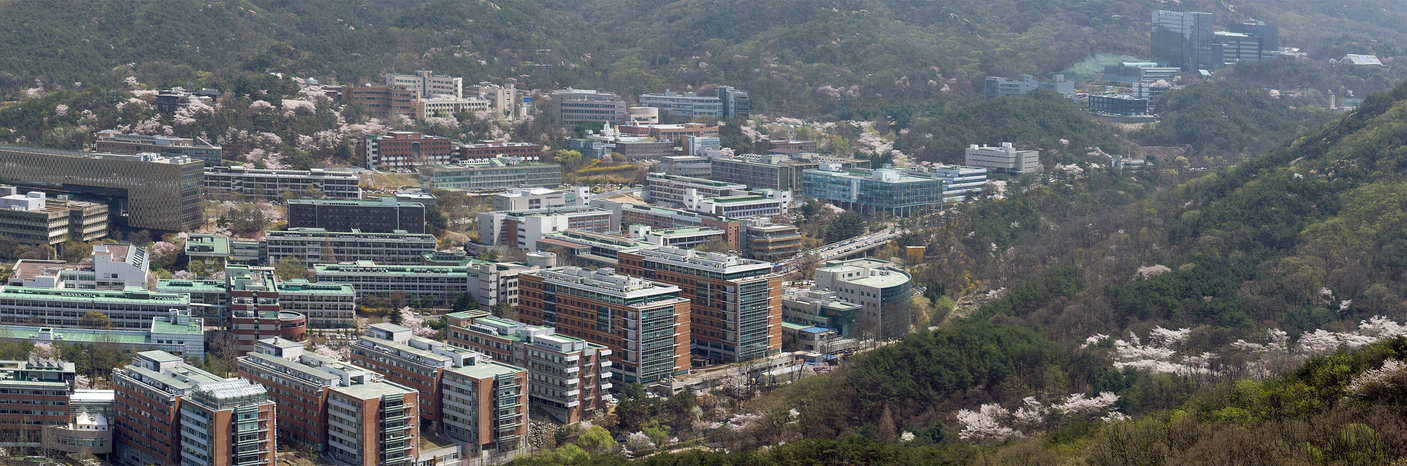
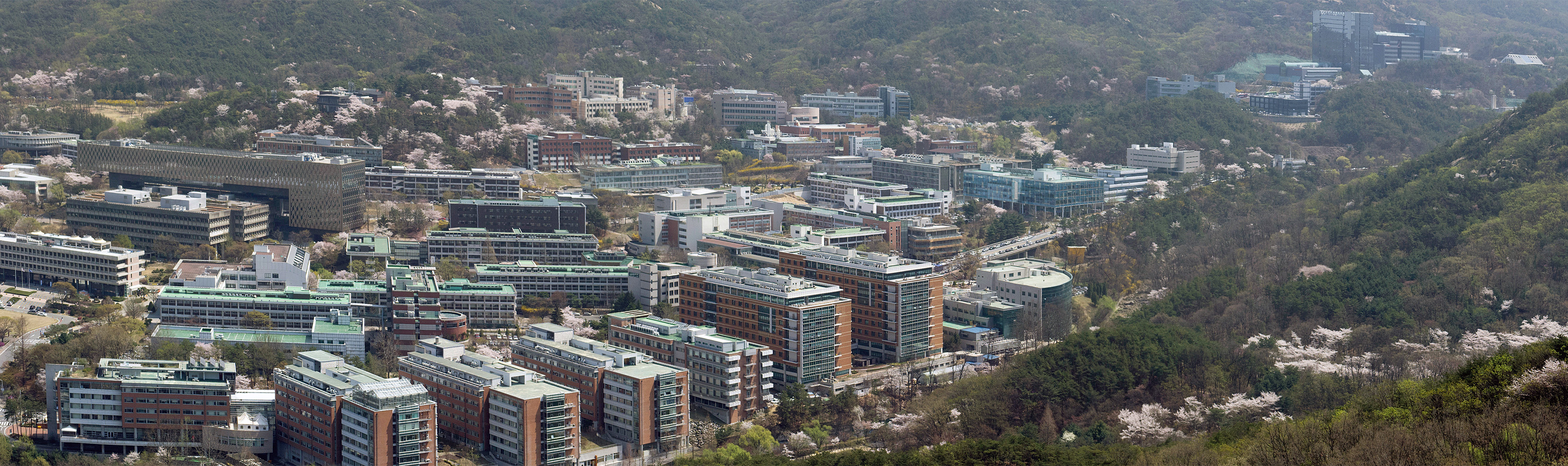
Connect left and right images and draw them

diff --git a/js/app.js b/js/app.js
@@ -53,7 +53,7 @@ class App {
                 },
                 image: {
                     width: this.images[0].width + this.images[1].width,
-                    height: this.images[0].height + this.images[1].height,
+                    height: this.images[0].height,
                 },
             };
 
@@ -111,18 +111,16 @@ class App {
             // lookup uniforms
             this.u_resolution = gl.getUniformLocation(program, "u_resolution");
             this.u_imageResolution = gl.getUniformLocation(program, "u_imageResolution");
-            this.u_imageLeftWidth = gl.getUniformLocation(program, "u_imageLeftWidth");
-            this.u_imageRightWidth = gl.getUniformLocation(program, "u_imageRightWidth");
             this.u_mousePosition = gl.getUniformLocation(program, "u_mousePosition");
 
             // lookup the sampler locations.
-            const u_image0LeftLocation = gl.getUniformLocation(program, "u_image0L");
+            const u_image0LeftLocation  = gl.getUniformLocation(program, "u_image0L");
             const u_image0RightLocation = gl.getUniformLocation(program, "u_image0R");
-            const u_image1LeftLocation = gl.getUniformLocation(program, "u_image1L");
+            const u_image1LeftLocation  = gl.getUniformLocation(program, "u_image1L");
             const u_image1RightLocation = gl.getUniformLocation(program, "u_image1R");
-            const u_image2LeftLocation = gl.getUniformLocation(program, "u_image2L");
+            const u_image2LeftLocation  = gl.getUniformLocation(program, "u_image2L");
             const u_image2RightLocation = gl.getUniformLocation(program, "u_image2R");
-            const u_image3LeftLocation = gl.getUniformLocation(program, "u_image3L");
+            const u_image3LeftLocation  = gl.getUniformLocation(program, "u_image3L");
             const u_image3RightLocation = gl.getUniformLocation(program, "u_image3R");
 
             this.resize();
@@ -143,9 +141,7 @@ class App {
 
             // set the resolution
             gl.uniform2f(this.u_resolution, gl.canvas.width, gl.canvas.height);
-            gl.uniform2f(this.u_imageResolution, this.param.image.width, this.param.image.height);
-            gl.uniform1f(this.u_imageLeftWidth, this.param.imageLeft.width);
-            gl.uniform1f(this.u_imageRightWidth, this.param.imageRight.width);
+            gl.uniform2f(this.u_imageResolution, this.param.imageLeft.width, this.param.imageLeft.height);
 
             // set which texture units to render with.
             gl.uniform1i(u_image0LeftLocation,  0);  // texture unit 0 left
@@ -181,7 +177,8 @@ class App {
             this.touch_vel = 0;
             clearInterval(this.touch_damping);
             this.touch_damping = null;
-        });
+            evt.preventDefault();
+        }.bind(this));
         canvas.addEventListener('touchmove', function (evt) {
             if (this.touch_moving) {
                 const img_ratio = this.canvas.height / this.param.image.height;
@@ -205,13 +202,9 @@ class App {
 
             if (this.touch_damping == null) {
                 this.touch_damping = setInterval(function(){
-                    let sign = Math.sign(this.touch_vel);
-                    if (sign > 0)
-                        this.touch_vel -= 0.5 /this.canvas.width;
-                    else
-                        this.touch_vel += 0.5 /this.canvas.width;
+                    this.touch_vel /= 1.05;
 
-                    if (sign * Math.sign(this.touch_vel) < 0) {
+                    if (Math.abs(this.touch_vel) < 0.0001) {
                         clearInterval(this.touch_damping);
                         this.touch_damping = null;
                     }else {

diff --git a/js/canvas.frag.js b/js/canvas.frag.js
@@ -4,8 +4,6 @@ precision mediump float;
 // our textures
 uniform vec2 u_resolution;
 uniform vec2 u_imageResolution;
-uniform float u_imageLeftWidth;
-uniform float u_imageRightWidth;
 uniform vec2 u_mousePosition;
 
 uniform sampler2D u_image0L;
@@ -21,34 +19,55 @@ uniform sampler2D u_image3R;
 varying vec2 v_uv;
 
 void main() {
-    float uvRatio = u_imageResolution.y / u_imageResolution.x;
-    float xyRatio = u_resolution.y / u_resolution.x;
-    float weight = u_mousePosition.y * 4.;
-    float transl = u_mousePosition.x;
+    float uvRatio = u_imageResolution.x / u_imageResolution.y;
+    float xyRatio = u_resolution.x / u_resolution.y;
+    float scale = xyRatio / uvRatio;
 
-    transl = clamp(transl, 0., 1.);
+    float w = u_mousePosition.y * 4.; // 0 => 4
+    float t = u_mousePosition.x; // 0 => 1
+    t = clamp(t, 0., 1.);
 
     vec4 color0, color1;
-    if (weight >= 3.0) {
-        color0 = texture2D(u_image3L, v_uv * vec2(uvRatio/xyRatio, 1.0) + vec2((1.0-uvRatio/xyRatio)*transl, 0.));
-        color1 = texture2D(u_image0L, v_uv * vec2(uvRatio/xyRatio, 1.0) + vec2((1.0-uvRatio/xyRatio)*transl, 0.));
-        if (weight >= 4.0) weight = 4.0;
-    }else if (weight >= 2.0) {
-        color0 = texture2D(u_image2L, v_uv * vec2(uvRatio/xyRatio, 1.0) + vec2((1.0-uvRatio/xyRatio)*transl, 0.));
-        color1 = texture2D(u_image3L, v_uv * vec2(uvRatio/xyRatio, 1.0) + vec2((1.0-uvRatio/xyRatio)*transl, 0.));
-    }else if (weight >= 1.0) {
-        color0 = texture2D(u_image1L, v_uv * vec2(uvRatio/xyRatio, 1.0) + vec2((1.0-uvRatio/xyRatio)*transl, 0.));
-        color1 = texture2D(u_image2L, v_uv * vec2(uvRatio/xyRatio, 1.0) + vec2((1.0-uvRatio/xyRatio)*transl, 0.));
+    vec2 uv = vec2(v_uv.x * scale + (2.0 - scale) * t, v_uv.y);
+    if (uv.x >= 1.) {
+        uv.x -= 1.;
+        if (w >= 3.0) {
+            color0 = texture2D(u_image3R, uv);
+            color1 = texture2D(u_image0R, uv);
+            if (w >= 4.0) w = 4.0;
+        }else if (w >= 2.0) {
+            color0 = texture2D(u_image2R, uv);
+            color1 = texture2D(u_image3R, uv);
+        }else if (w >= 1.0) {
+            color0 = texture2D(u_image1R, uv);
+            color1 = texture2D(u_image2R, uv);
+        }else {
+            color0 = texture2D(u_image0R, uv);
+            color1 = texture2D(u_image1R, uv);
+            if (w < 0.0) w = 0.0;
+        }
     }else {
-        color0 = texture2D(u_image0L, v_uv * vec2(uvRatio/xyRatio, 1.0) + vec2((1.0-uvRatio/xyRatio)*transl, 0.));
-        color1 = texture2D(u_image1L, v_uv * vec2(uvRatio/xyRatio, 1.0) + vec2((1.0-uvRatio/xyRatio)*transl, 0.));
-        if (weight < 0.0) weight = 0.0;
+        if (w >= 3.0) {
+            color0 = texture2D(u_image3L, uv);
+            color1 = texture2D(u_image0L, uv);
+            if (w >= 4.0) w = 4.0;
+        }else if (w >= 2.0) {
+            color0 = texture2D(u_image2L, uv);
+            color1 = texture2D(u_image3L, uv);
+        }else if (w >= 1.0) {
+            color0 = texture2D(u_image1L, uv);
+            color1 = texture2D(u_image2L, uv);
+        }else {
+            color0 = texture2D(u_image0L, uv);
+            color1 = texture2D(u_image1L, uv);
+            if (w < 0.0) w = 0.0;
+        }
     }
-    
-    if (weight == 4.0)
+
+    if (w == 4.0)
         gl_FragColor = mix(color0, color1, 1.0);
     else
-        gl_FragColor = mix(color0, color1, fract(weight));
+        gl_FragColor = mix(color0, color1, fract(w));
 }
 `
 export default fragment

diff --git a/css/reset.scss b/css/reset.scss
@@ -25,6 +25,7 @@ time, mark, audio, video {
   font-size: 100%;
   font: inherit;
   vertical-align: baseline;
+  user-select: none;
 }
 
 /* HTML5 display-role reset for older browsers */
@@ -67,5 +68,6 @@ table {
   bottom: 0%;
   margin-bottom: 1vh;
   z-index: 100;
+  user-select: none;
 }
 /*# sourceMappingURL=reset.css.map */
